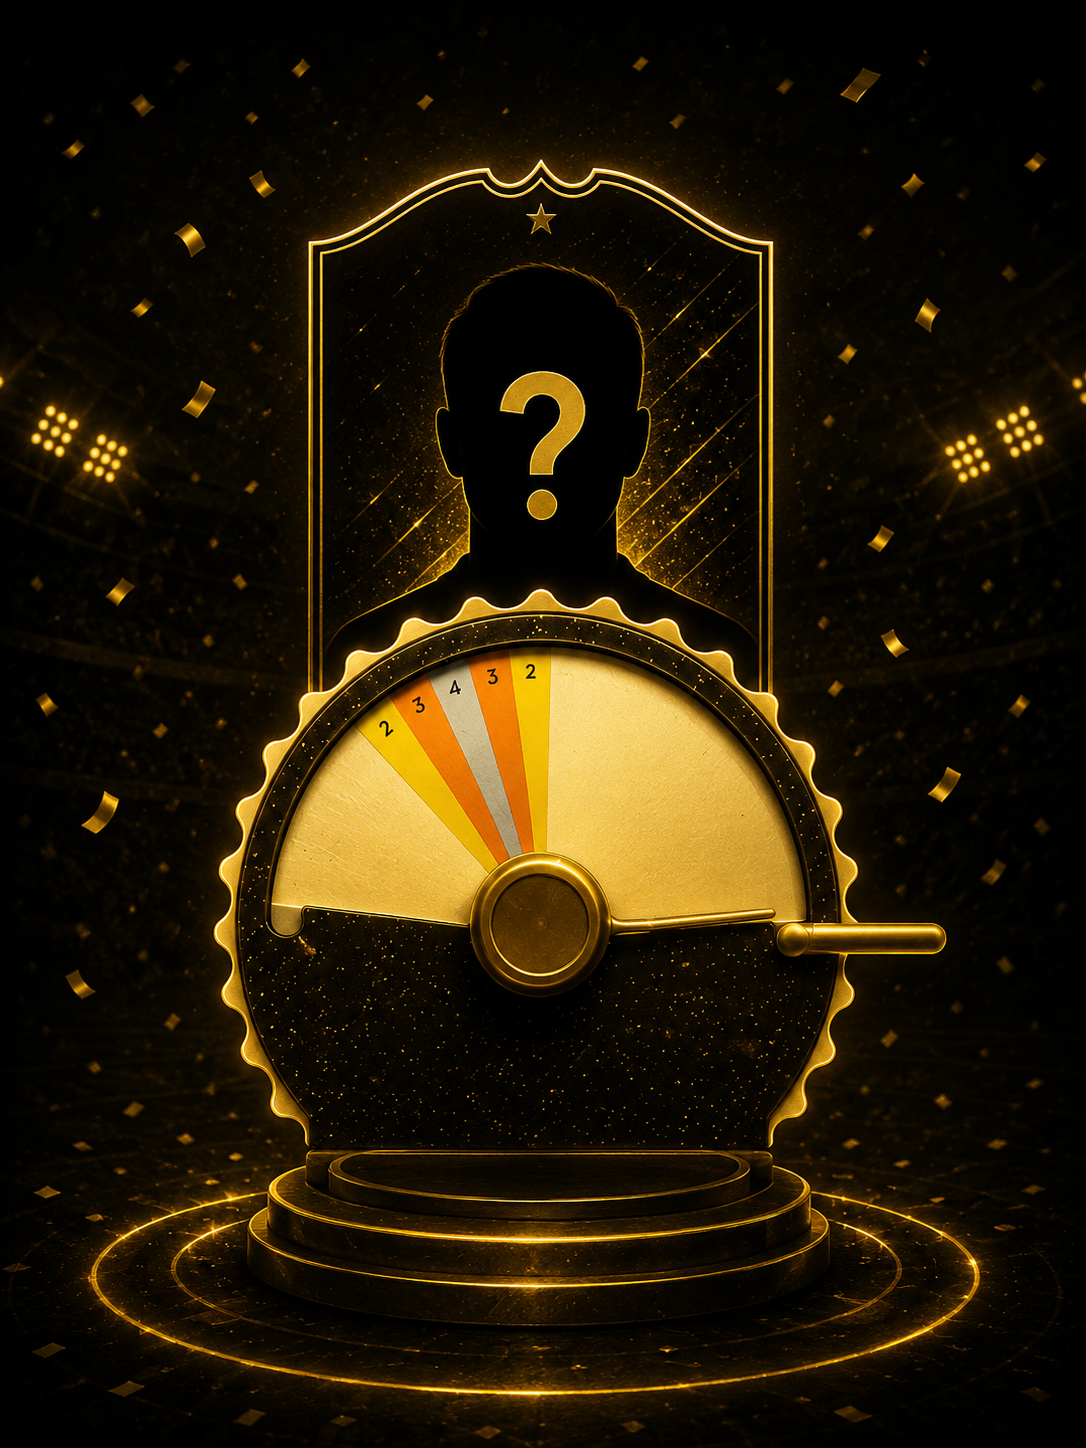
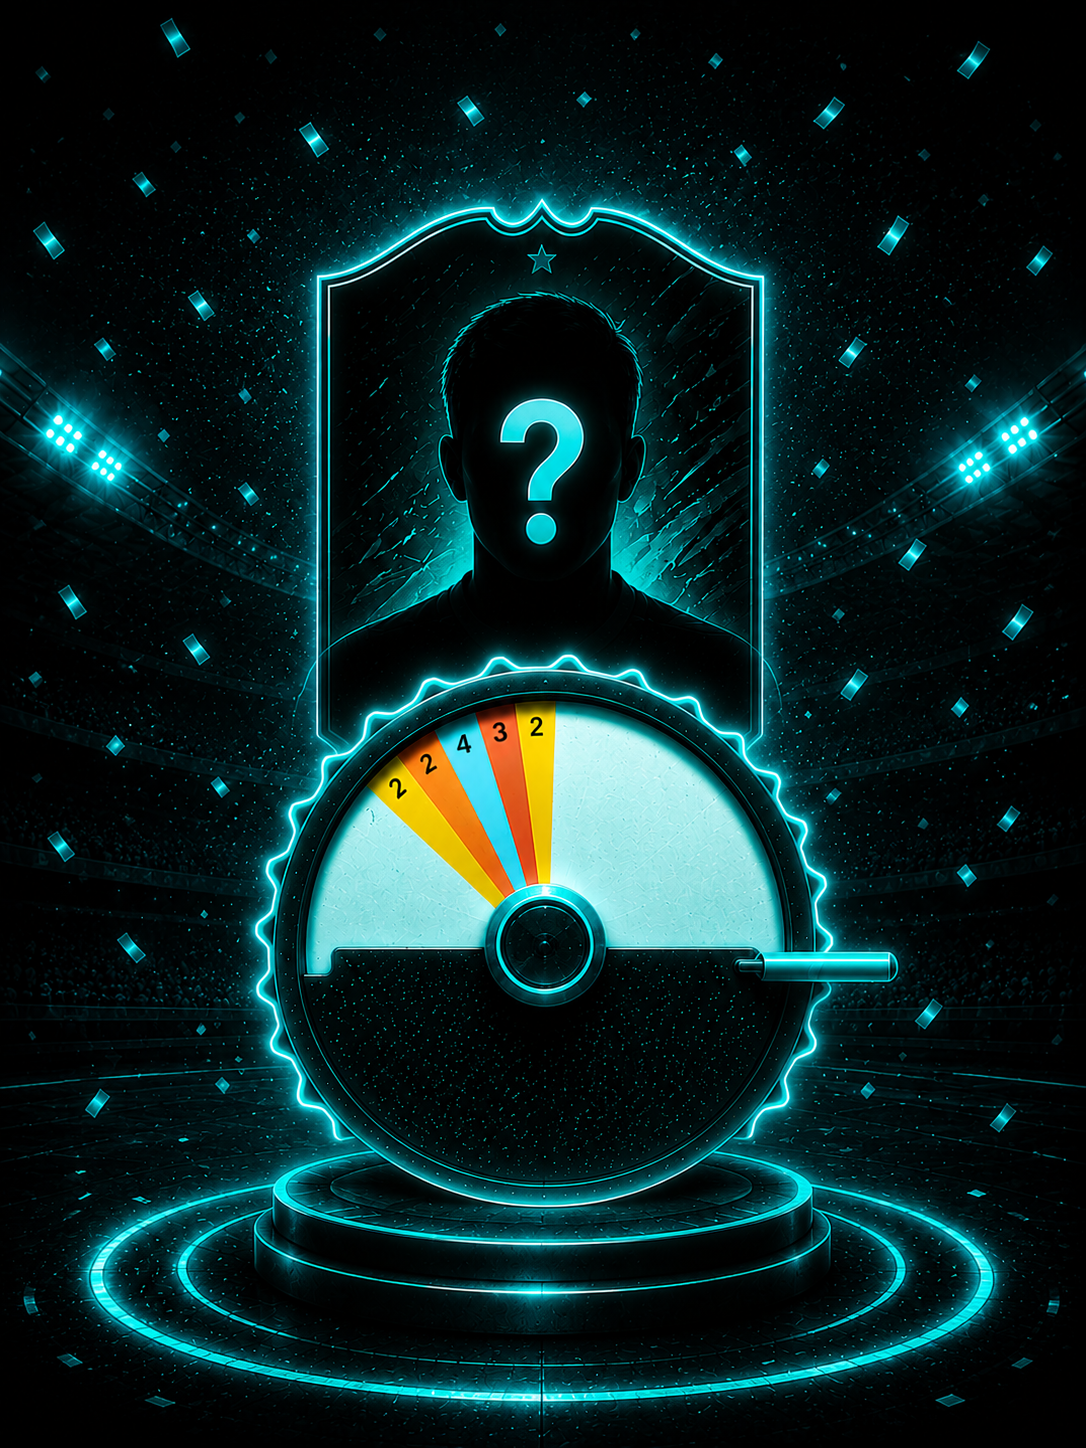
Nueva imagen y color de glow para La Frecuencia (cian, no dorado)
La imagen y el brillo de la tarjeta usaban un dorado muy parecido
al de Subasta Futbolera. Reemplazo la imagen y cambio la variable
--blue por --cyan (#22d3ee) para que cada juego tenga su propio
color distintivo.

diff --git a/public/style.css b/public/style.css
@@ -16,7 +16,7 @@
   --line2:#2a3d4f;
   --ink:#eef4ee;            /* texto claro */
   --ink-soft:#9fb0ad;       /* texto secundario */
-  --gold:#e9b949; --purple:#8b54e0; --red:#ff4d4d; --blue:#4e8ecb; --teal:#2dd4bf;
+  --gold:#e9b949; --purple:#8b54e0; --red:#ff4d4d; --cyan:#22d3ee; --teal:#2dd4bf;
   --white:#ffffff;
 
   --display:'Oswald',sans-serif; --body:'Libre Franklin',sans-serif; --mono:'Libre Franklin',sans-serif;
@@ -178,13 +178,13 @@ select{font-family:var(--display);font-weight:600;letter-spacing:0.04em;backgrou
 .game-pick-card.g-impostor:hover{box-shadow:0 10px 30px rgba(0,0,0,0.5), 0 0 24px rgba(139,84,224,0.35);}
 .game-pick-card.g-subasta:hover{box-shadow:0 10px 30px rgba(0,0,0,0.5), 0 0 24px rgba(233,185,73,0.35);}
 .game-pick-card.g-mentiroso:hover{box-shadow:0 10px 30px rgba(0,0,0,0.5), 0 0 24px rgba(255,77,77,0.35);}
-.game-pick-card.g-wavelength:hover{box-shadow:0 10px 30px rgba(0,0,0,0.5), 0 0 24px rgba(78,142,203,0.35);}
+.game-pick-card.g-wavelength:hover{box-shadow:0 10px 30px rgba(0,0,0,0.5), 0 0 24px rgba(34,211,238,0.35);}
 .game-pick-card.g-who:hover{box-shadow:0 10px 30px rgba(0,0,0,0.5), 0 0 24px rgba(45,212,191,0.35);}
 .game-pick-card.selected{border-color:var(--neon);box-shadow:0 0 0 1px var(--neon), 0 0 22px rgba(182,255,46,0.25);animation:selectPop .28s ease-out;}
 .game-pick-card.g-impostor.selected{border-color:var(--purple);box-shadow:0 0 0 1px var(--purple), 0 0 22px rgba(139,84,224,0.3);}
 .game-pick-card.g-subasta.selected{border-color:var(--gold);box-shadow:0 0 0 1px var(--gold), 0 0 22px rgba(233,185,73,0.3);}
 .game-pick-card.g-mentiroso.selected{border-color:var(--red);box-shadow:0 0 0 1px var(--red), 0 0 22px rgba(255,77,77,0.3);}
-.game-pick-card.g-wavelength.selected{border-color:var(--blue);box-shadow:0 0 0 1px var(--blue), 0 0 22px rgba(78,142,203,0.35);}
+.game-pick-card.g-wavelength.selected{border-color:var(--cyan);box-shadow:0 0 0 1px var(--cyan), 0 0 22px rgba(34,211,238,0.35);}
 .game-pick-card.g-who.selected{border-color:var(--teal);box-shadow:0 0 0 1px var(--teal), 0 0 22px rgba(45,212,191,0.35);}
 .game-pick-title{font-family:var(--display);font-size:0.92rem;line-height:1.05;color:var(--white);letter-spacing:0.01em;text-shadow:0 2px 8px rgba(0,0,0,0.9);}
 .game-pick-desc{display:none;}